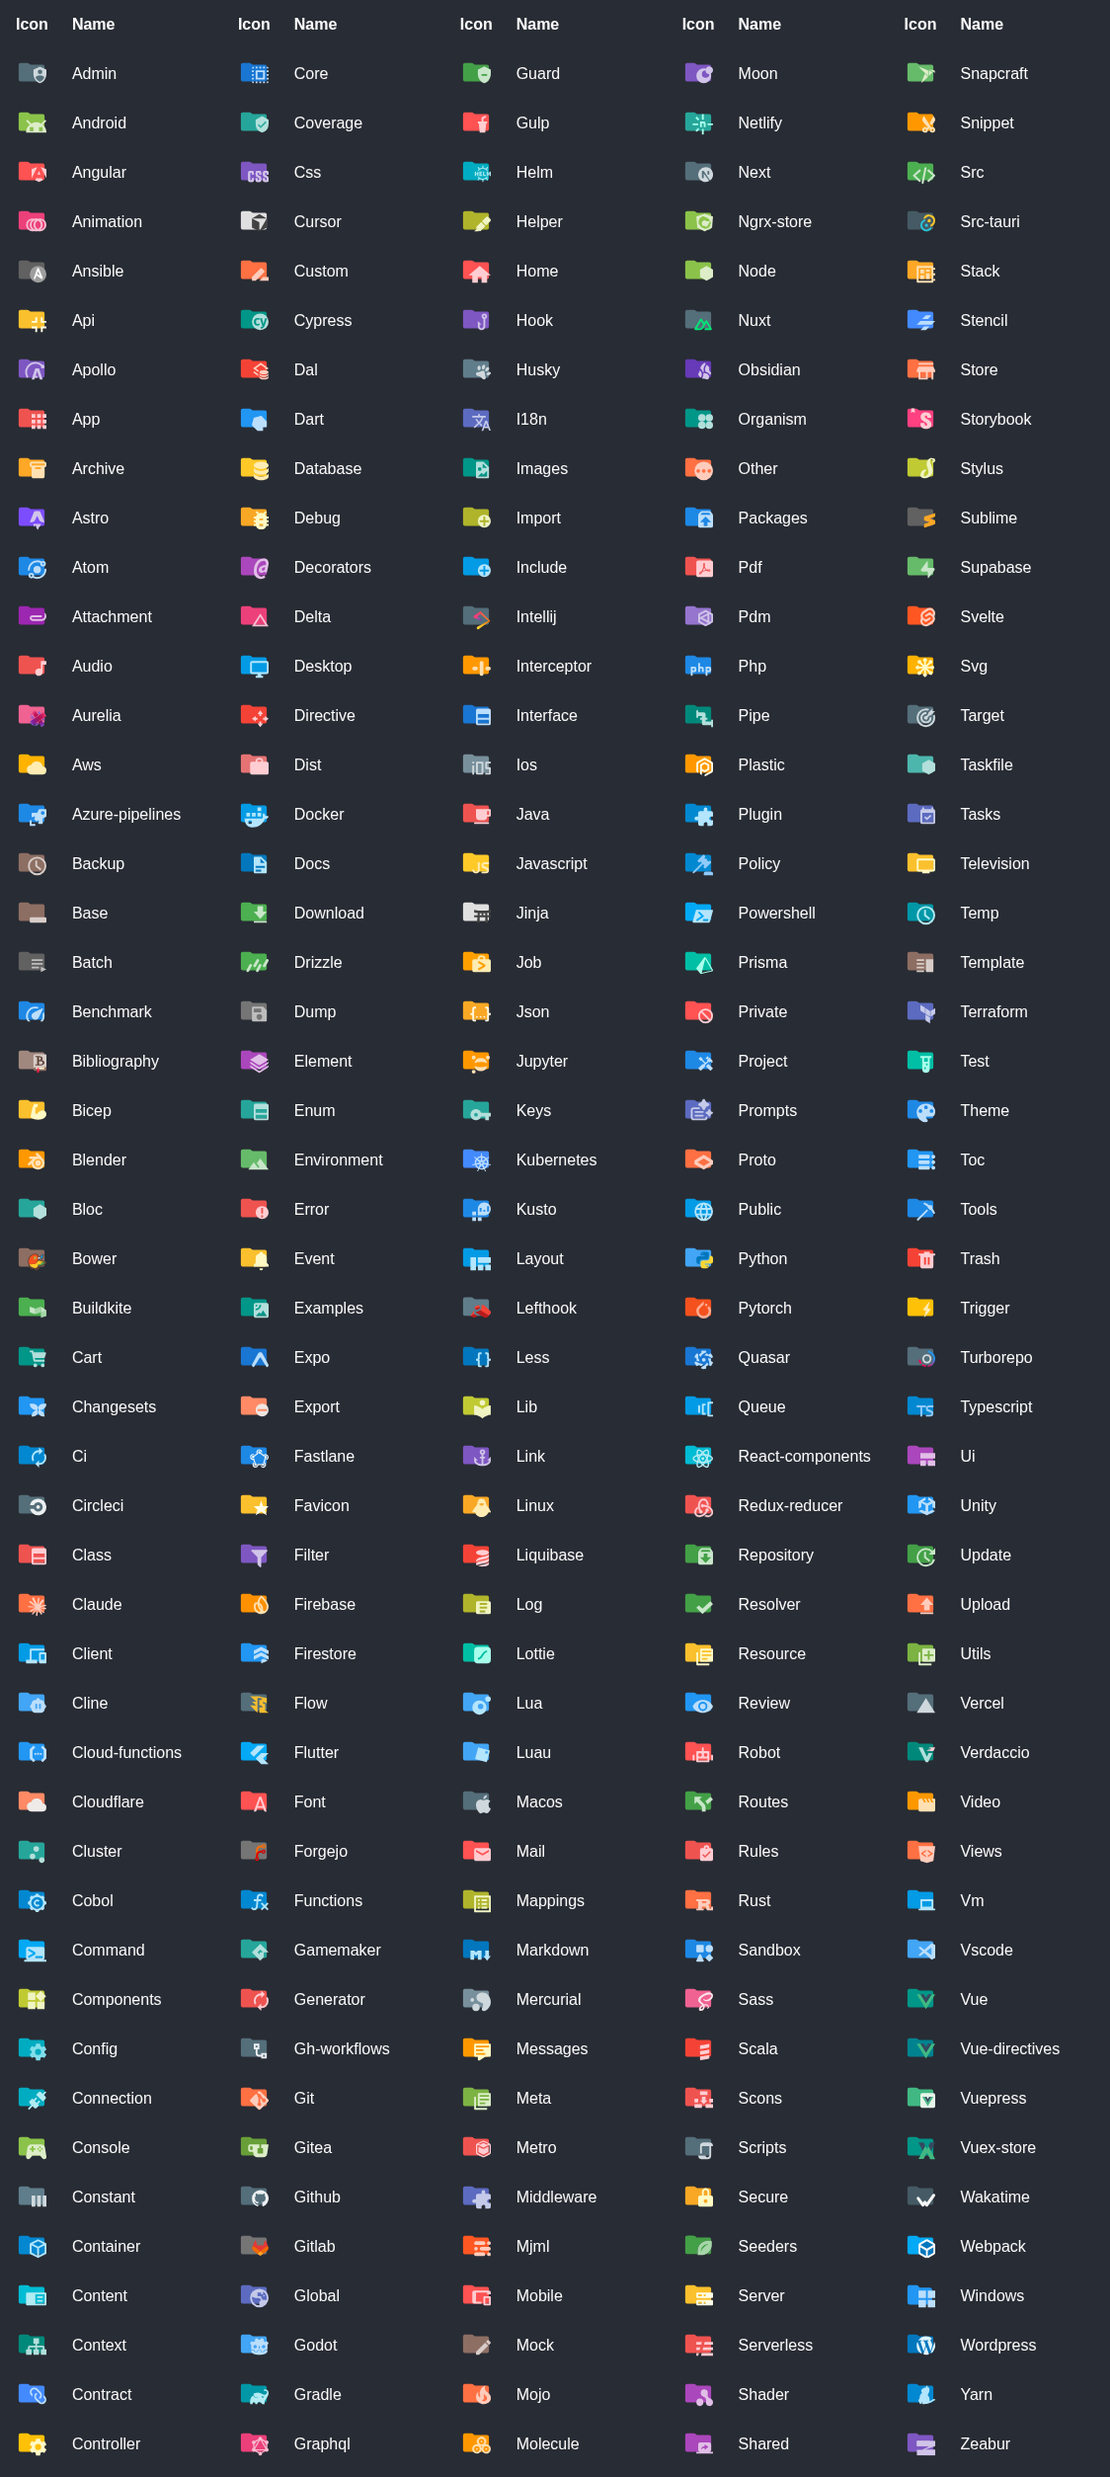
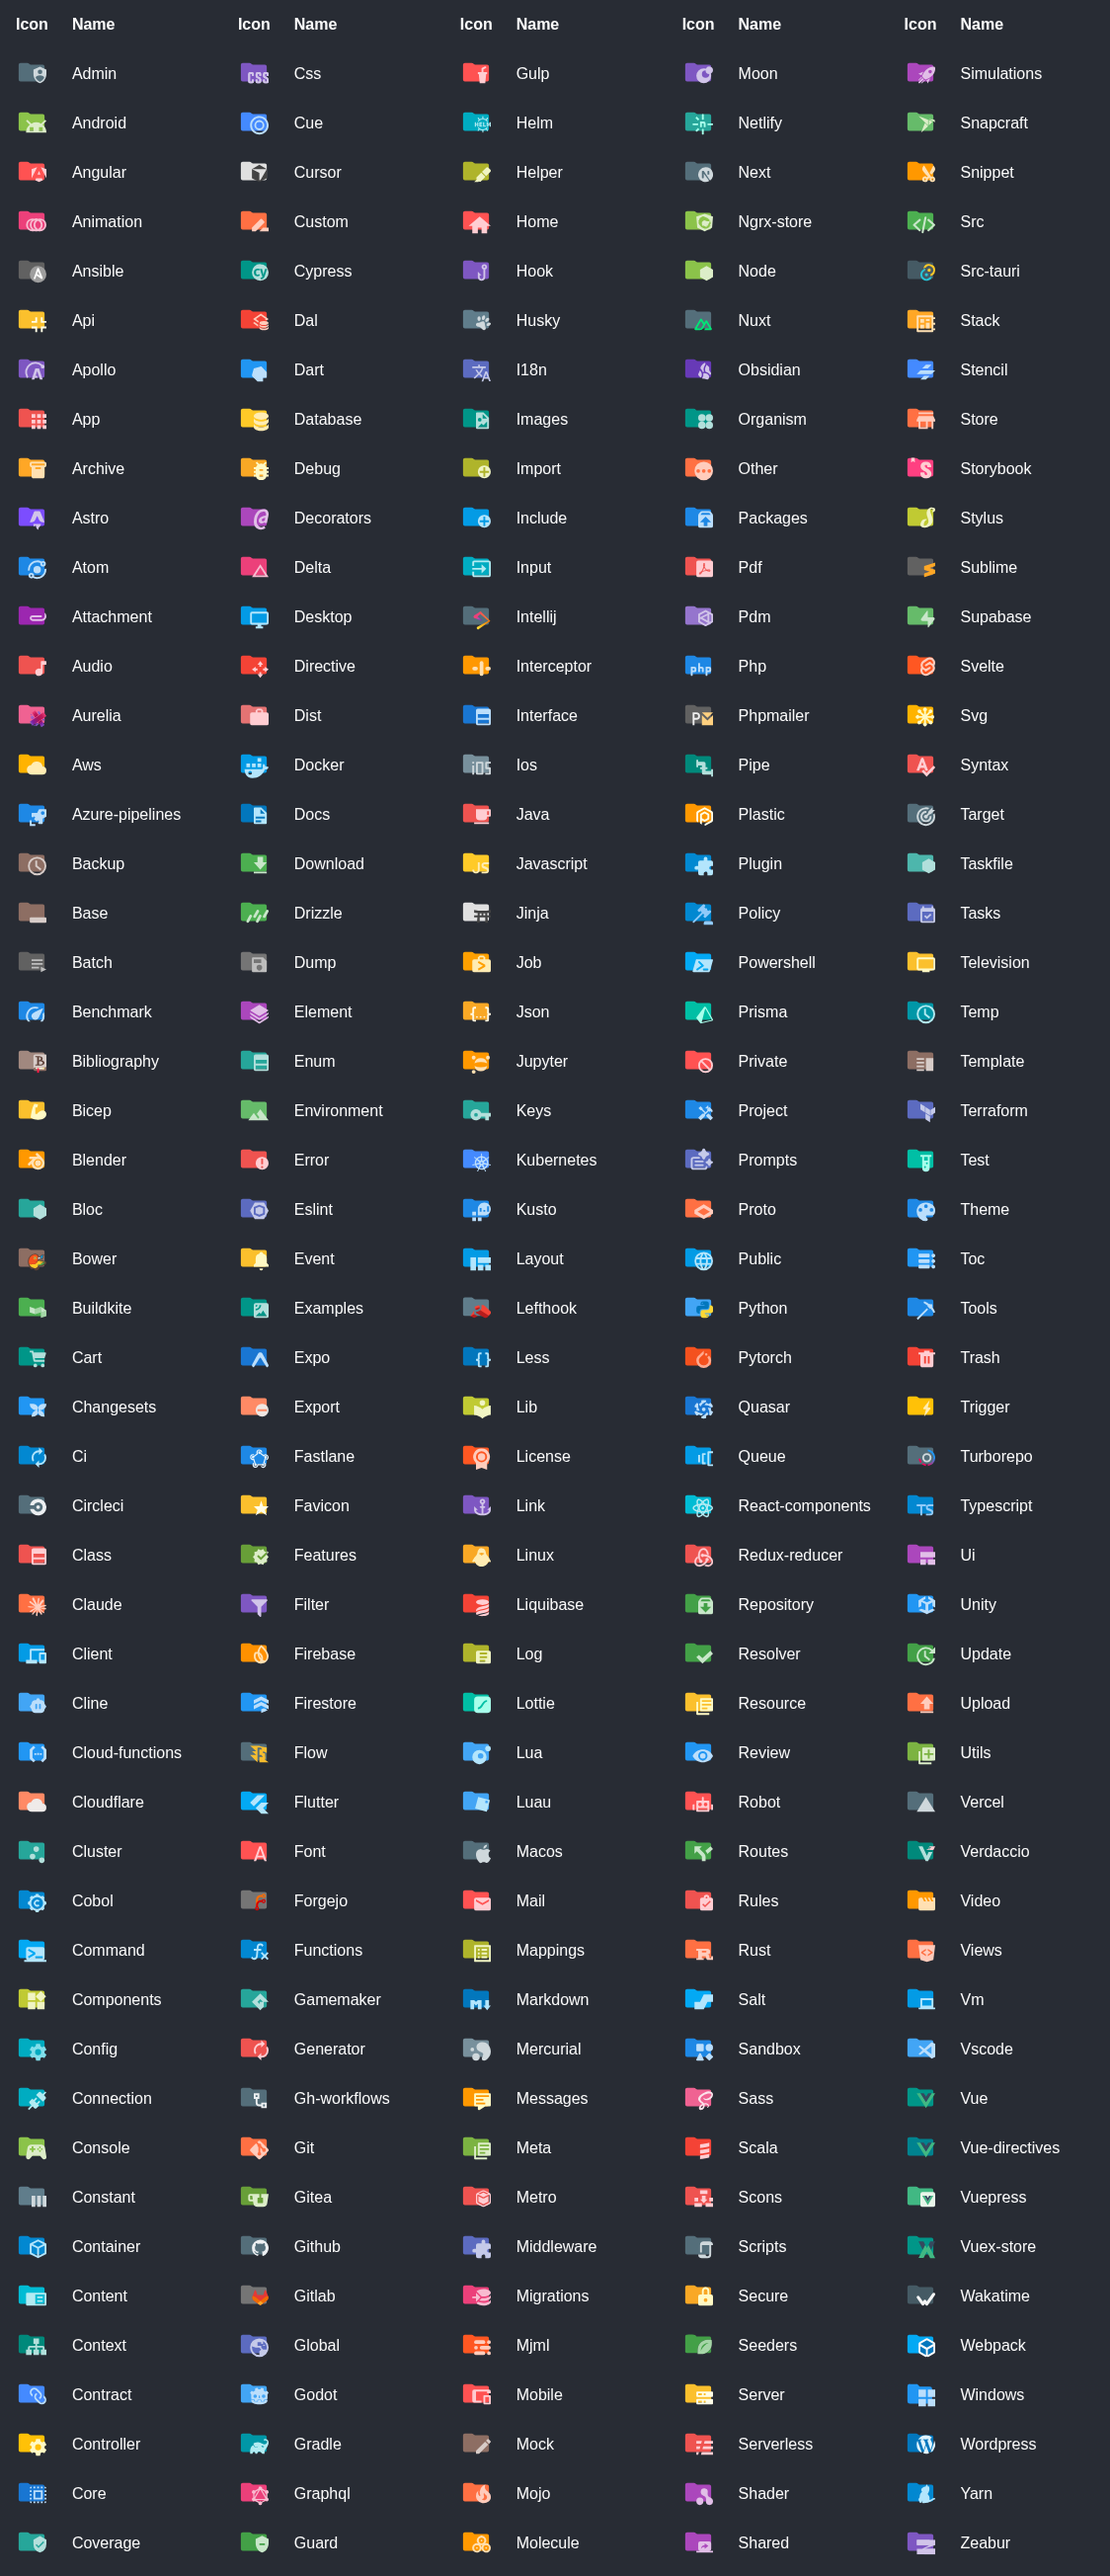
release: 🔖 v1.34.0

diff --git a/CHANGELOG.md b/CHANGELOG.md
@@ -3,10 +3,66 @@
  All notable changes to this project will be documented in this file. Dates are displayed in UTC.
 
  
+#### [v1.34.0](https://github.com/lucodear/lucodear-icons/compare/v1.33.0...v1.34.0) 
+
+> December 26, 2025 
+
+- chore(release): v5.30.0 [`bf1b222c`](https://github.com/lucodear/lucodear-icons/commit/bf1b222c)
+- chore(deps): update actions/attest-build-provenance action to v3.1.0 [`#3298`](https://github.com/lucodear/lucodear-icons/pull/3298)
+- feat: extended folder-functions to include composables folders [`#3301`](https://github.com/lucodear/lucodear-icons/pull/3301)
+- feat: added some folder names [`#3293`](https://github.com/lucodear/lucodear-icons/pull/3293)
+- feat: apply folder-docs to diary and notes [`#3292`](https://github.com/lucodear/lucodear-icons/pull/3292)
+- chore(deps): update dependency bun to v1.3.4 [`#3288`](https://github.com/lucodear/lucodear-icons/pull/3288)
+- chore(deps): update actions/create-github-app-token action to v2.2.1 [`#3286`](https://github.com/lucodear/lucodear-icons/pull/3286)
+- chore(deps): update github actions workflows [`#3281`](https://github.com/lucodear/lucodear-icons/pull/3281)
+- feat: Add additional esbuild file patterns [`5801a121`](https://github.com/lucodear/lucodear-icons/commit/5801a121)
+- fix: update Deno logo to new version [`#3278`](https://github.com/lucodear/lucodear-icons/pull/3278)
+- feat: add salt file and folder icons [`#3275`](https://github.com/lucodear/lucodear-icons/pull/3275)
+- feat: migrations folder [`#3187`](https://github.com/lucodear/lucodear-icons/pull/3187)
+- feat: give Visual Studio icon to Solution Filter files [`#3272`](https://github.com/lucodear/lucodear-icons/pull/3272)
+- chore(deps): update dependency bun to v1.3.3 [`#3267`](https://github.com/lucodear/lucodear-icons/pull/3267)
+- chore(deps): update actions/create-github-app-token action to v2.2.0 [`#3268`](https://github.com/lucodear/lucodear-icons/pull/3268)
+- chore(deps): update actions/checkout action to v6 [`#3266`](https://github.com/lucodear/lucodear-icons/pull/3266)
+- chore(release): v5.29.0 [`ad930011`](https://github.com/lucodear/lucodear-icons/commit/ad930011)
+- feat: add icon for Lean proof assistant language (.lean) [`#3256`](https://github.com/lucodear/lucodear-icons/pull/3256)
+- feat: add feature folder icon [`#3260`](https://github.com/lucodear/lucodear-icons/pull/3260)
+- chore(deps): update actions/checkout action to v5.0.1 [`#3263`](https://github.com/lucodear/lucodear-icons/pull/3263)
+- feat: add 'cppm' file extension to cpp icon mapping [`4d4a9b6b`](https://github.com/lucodear/lucodear-icons/commit/4d4a9b6b)
+- feat: update quarto icon SVG for improved resolution [`4785179e`](https://github.com/lucodear/lucodear-icons/commit/4785179e)
+- feat: oxc for .oxlintrc.json and .oxfmtrc.json [`#3258`](https://github.com/lucodear/lucodear-icons/pull/3258)
+- chore(deps): update dependency esbuild to ^0.27.0 [`#3255`](https://github.com/lucodear/lucodear-icons/pull/3255)
+- chore(deps): update bun packages [`#3238`](https://github.com/lucodear/lucodear-icons/pull/3238)
+- feat: add dedicated icons for license files [`#3239`](https://github.com/lucodear/lucodear-icons/pull/3239)
+- chore(deps): update dependency bun to v1.3.2 [`#3254`](https://github.com/lucodear/lucodear-icons/pull/3254)
+- feat(swift): extend Swift file icon mappings [`#3253`](https://github.com/lucodear/lucodear-icons/pull/3253)
+- feat: add support for `vitest.unit.config` and `vitest.e2e.config` file patterns [`#3252`](https://github.com/lucodear/lucodear-icons/pull/3252)
+- refactor: improve `certificate` icon design [`#3245`](https://github.com/lucodear/lucodear-icons/pull/3245)
+- feat: add warp.md icon with light and dark theme [`#3244`](https://github.com/lucodear/lucodear-icons/pull/3244)
+- feat: Image icon for KTX and KTX2 files [`#3246`](https://github.com/lucodear/lucodear-icons/pull/3246)
+- feat: add lynx icon [`#3234`](https://github.com/lucodear/lucodear-icons/pull/3234)
+- feat: apply `gemini-ai` icon to `GEMINI.md` file [`#3237`](https://github.com/lucodear/lucodear-icons/pull/3237)
+- chore(deps): update dependency @biomejs/biome to v2.3.0 [`#3222`](https://github.com/lucodear/lucodear-icons/pull/3222)
+- chore(deps): update dependency bun to v1.3.1 [`#3228`](https://github.com/lucodear/lucodear-icons/pull/3228)
+- feat: add icon for licenses folder [`#3233`](https://github.com/lucodear/lucodear-icons/pull/3233)
+- fix: Add 'jsonl' to languageIcons [`#3232`](https://github.com/lucodear/lucodear-icons/pull/3232)
+- chore(release): v5.28.0 [`9ca2f188`](https://github.com/lucodear/lucodear-icons/commit/9ca2f188)
+- feat: made the icon for `blog/` the same as `news/` [`#3231`](https://github.com/lucodear/lucodear-icons/pull/3231)
+- feat: add Rstack (Rspack/Rsbuild/Rslib/Rspress/Rstest/Rslint) icons [`#3208`](https://github.com/lucodear/lucodear-icons/pull/3208)
+- fix: add patch for changelogen@0.6.2 to tag contributors in release notes [`#3179`](https://github.com/lucodear/lucodear-icons/pull/3179)
+- feat: eslint folder icons [`#3223`](https://github.com/lucodear/lucodear-icons/pull/3223)
+- feat: input folder icon and simulations folder icon [`#3162`](https://github.com/lucodear/lucodear-icons/pull/3162)
+- chore(deps): update dependency bun to v1.3.0 [`#3212`](https://github.com/lucodear/lucodear-icons/pull/3212)
+- feat: add icon for ShellCheck rc files [`#3210`](https://github.com/lucodear/lucodear-icons/pull/3210)
+- feat(icons): add chromatic icon [`#3217`](https://github.com/lucodear/lucodear-icons/pull/3217)
+- feat: improve `console` icon design [`#3215`](https://github.com/lucodear/lucodear-icons/pull/3215)
+- fix: remove unused bg from vala icon [`#3216`](https://github.com/lucodear/lucodear-icons/pull/3216)
+- feat: add icons for cuelang [`#3211`](https://github.com/lucodear/lucodear-icons/pull/3211)
+ 
 #### [v1.33.0](https://github.com/lucodear/lucodear-icons/compare/v1.32.0...v1.33.0) 
 
 > October 10, 2025 
 
+- release: 🔖 v1.33.0 [`9a8e5d3b`](https://github.com/lucodear/lucodear-icons/commit/9a8e5d3b)
 - feat: ✨ add new folder type for observability [`cc59f6f6`](https://github.com/lucodear/lucodear-icons/commit/cc59f6f6)
  
 #### [v1.32.0](https://github.com/lucodear/lucodear-icons/compare/v1.31.0...v1.32.0) 
